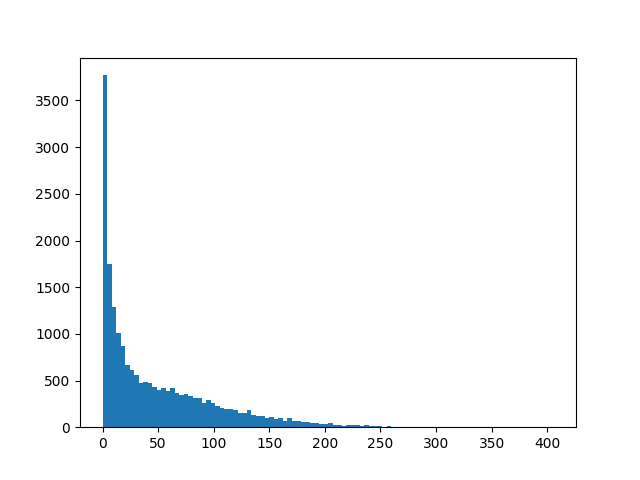
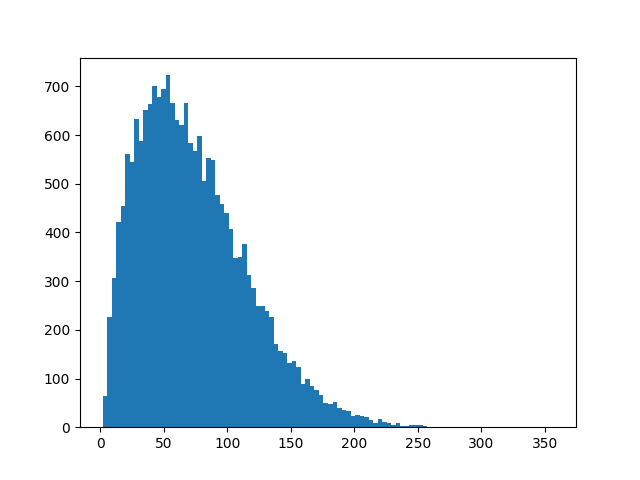
sync

diff --git a/scripts/why/crossattention.py b/scripts/why/crossattention.py
@@ -3,25 +3,76 @@ import sys
 sys.path.append('/home/banyh2000/odfn/scripts/why/daam')
 sys.path.append('/home/banyh2000/odfn')
 from daam import set_seed, trace
-
-from scripts.utils.utils_odfn import variance_index_sorted, seeds_plus, seeds_plus_dict, coco_classes
+import os
+from scripts.utils.utils_odfn import variance_index_sorted, seeds_plus, seeds_plus_dict, coco_classes, set_seed, auto_device
 
 from matplotlib import pyplot as plt
 import torch
+
+
+
+
+def replace(latent_source, latent_target, bounding_box_latent_source, bounding_box_latent_target):
+    """_summary_
+
+    Args:
+        latent_source (_type_): _description_
+        latent_target (_type_): _description_
+        bounding_box_latent_source (_type_): _description_
+        bounding_box_latent_target (_type_): _description_
+
+    Returns:
+        _type_: _description_
+    """
+
+    x_s, y_s, width_s, height_s = bounding_box_latent_source
+    x_t, y_t, width_t, height_t = bounding_box_latent_target
+    latent_target[:, :, y_t:y_t+height_t, x_t:x_t+width_t] = latent_source[:, :, y_s:y_s+height_s, x_s:x_s+width_s]
+    return latent_target
+
 
 model_id = 'stabilityai/stable-diffusion-2-base'
 device = 'cuda'
 pipe = StableDiffusionPipeline.from_pretrained(model_id, use_auth_token=True).to(device)
 
 for i, name in enumerate(coco_classes):
-    prompt = f"an object"
+    
+    seed_source = seeds_plus[variance_index_sorted[0]]
+    seed_target = seeds_plus[variance_index_sorted[19900]]
+    
+    bounding_box_latent_source = [40,24,24,24]
+    bounding_box_latent_target = [40,24,24,24]
+    
+    bounding_box_image_source = [value * 8 for value in bounding_box_latent_source]
+    bounding_box_image_target = [value * 8 for value in bounding_box_latent_target]
+    
+    latents_source = torch.randn((1,4,64,64), generator=set_seed(seed_source), device='cuda', dtype=torch.float32)
+    latents_target = torch.randn((1,4,64,64), generator=set_seed(seed_target), device='cuda', dtype=torch.float32)
+    prompt_target = f"a {name} on the table"
 
-    gen = set_seed(seeds_plus[variance_index_sorted[0]])  # for reproducibility
+    fig, axs = plt.subplots(2, 2, figsize=(10, 10))
 
     with torch.no_grad():
         with trace(pipe) as tc:
-            out = pipe(prompt, num_inference_steps=50, generator=gen)
+            out = pipe(prompt_target, num_inference_steps=50, latents = latents_target, generator=set_seed(seed_target))
+            axs[0][0].imshow(out.images[0])
+            axs[0][0].add_patch(plt.Rectangle((bounding_box_image_target[0], bounding_box_image_target[1]), bounding_box_image_target[2], bounding_box_image_target[3], fill=None, edgecolor='blue', lw=2))
+            
             heat_map = tc.compute_global_heat_map(time_idx=[0,1,2,3,4])
-            heat_map = heat_map.compute_word_heat_map('object')
-            heat_map.plot_overlay(out.images[0])
-            plt.savefig(f'pics/heatmap/ .png')
+            heat_map = heat_map.compute_word_heat_map(f'{name}')
+            heat_map.plot_overlay(out.images[0], ax=axs[0][1])
+            
+        latents_target = replace(latents_source, latents_target, bounding_box_latent_source, bounding_box_latent_target)
+        with trace(pipe) as tc:
+            out = pipe(prompt_target, num_inference_steps=50, latents = latents_target, generator=set_seed(seed_target))
+            axs[1][0].imshow(out.images[0])
+            axs[1][0].add_patch(plt.Rectangle((bounding_box_image_target[0], bounding_box_image_target[1]), bounding_box_image_target[2], bounding_box_image_target[3], fill=None, edgecolor='blue', lw=2))
+            
+            heat_map = tc.compute_global_heat_map(time_idx=[0,1,2,3,4])
+            heat_map = heat_map.compute_word_heat_map(f'{name}')
+            heat_map.plot_overlay(out.images[0], ax=axs[1][1])
+            
+            path = 'pics/heatmap/seed_0_pos_40_24_24_24_layer_0_5'
+            if not os.path.exists(path):
+                os.makedirs(path)
+            plt.savefig(f'{path}/{name}.png')

diff --git a/scripts/detector/detector.py b/scripts/detector/detector.py
@@ -1,0 +1,69 @@
+from mmdet.apis import DetInferencer
+import numpy as np
+import sys
+sys.path.append('/home/banyh2000/odfn')
+from scripts.utils.utils_odfn import variance_index_sorted,seeds_plus,set_seed,seeds_plus_spilt,return_seeds_plus_spilt
+import json
+from pathlib import Path
+import os
+path = Path('/nfs/data/yuanhaoban/ODFN/version_2/')
+import torch
+import matplotlib.pyplot as plt
+
+for j in range(0,20000,100):
+    image_id = variance_index_sorted[j]
+    seed = seeds_plus[image_id]
+    spilt = return_seeds_plus_spilt(seed)
+
+    array = torch.randn((1,4,64,64), generator=set_seed(seed), device='cuda', dtype=torch.float32)
+    array = array[0].cpu().numpy().transpose(1,2,0)
+
+
+    annotations = []
+    for spilt_ in ['train', 'val', 'test']:
+        base_path = '/nfs/data/yuanhaoban/ODFN/version_2/'
+        path = base_path + spilt_ + '/annotations/' + spilt_ + '_for_1_category_5_class_npy.json'
+        data = json.load(open(path, 'r'))
+        annotations += data['annotations']
+
+
+    # Initialize the DetInferencer
+    inferencer = DetInferencer(model='/nfs/data/yuanhaoban/ODFN/model/data_augmentation.py', weights='/nfs/data/yuanhaoban/ODFN/model/weights.pth',device='cuda')
+
+    results = inferencer(array)
+    results = results['predictions'][0]
+    fig,axs = plt.subplots(1,2,figsize=(10,5))
+    # scale array to 0-1
+    array = (array - array.min())/(array.max()-array.min())
+
+    # axs[0].imshow(array)
+    axs[0].set_title(spilt)
+    
+    place_holder = np.zeros((64,64,3))
+    for i in range(5):
+        scores = results['scores'][i]
+        bbox = results['bboxes'][i]
+        # axs[0].add_patch(plt.Rectangle((bbox[0],bbox[1]),bbox[2]-bbox[0],bbox[3]-bbox[1],fill=False,edgecolor='r'))
+        place_holder[int(bbox[1]):int(bbox[3]),int(bbox[0]):int(bbox[2]),:] += scores * (5-i)
+    place_holder = (place_holder - place_holder.min())/(place_holder.max()-place_holder.min())
+    axs[0].imshow(place_holder)
+    
+    place_holder = np.zeros((64,64,3))
+    annotations_true = []
+    for annotation in annotations:
+        if annotation['image_id'] == image_id:
+            annotations_true.append(annotation)
+            
+    print(len(annotations_true))
+            
+    # axs[1].imshow(array)
+    for ann in annotations_true:
+        bbox = ann['bbox']
+        # axs[1].add_patch(plt.Rectangle((bbox[0],bbox[1]),bbox[2]-bbox[0],bbox[3]-bbox[1],fill=False,edgecolor='r'))
+        place_holder[int(bbox[1]):int(bbox[3]),int(bbox[0]):int(bbox[2]),:] += 1
+    place_holder = (place_holder - place_holder.min())/(place_holder.max()-place_holder.min())
+    axs[1].imshow(place_holder)
+    
+    fig.savefig(f'pics/detector/5cate/{j}.png')
+
+    print(image_id, seed, spilt)

diff --git a/scripts/application/replace_any.py b/scripts/application/replace_any.py
@@ -96,7 +96,7 @@ def replace_patch(latent, bbox, patch, theta = None):
 # bounding_box_latent_source = [40,20,24,30]
 # bounding_box_latent_target = [20,10,24,30]
 
-for i in range(19900,20000):
+for i in range(19999,20000):
     seed_source = seeds_plus[variance_index_sorted[0]]
     seed_target = seeds_plus[variance_index_sorted[i]]
 
@@ -152,7 +152,7 @@ for i in range(19900,20000):
         axs[1][1].imshow(latents_target_final)
         
         
-        theta = 10
+        theta = 50
         x_t, y_t, width_t, height_t = bounding_box_latent_target
         patch = generate_patch_sin((4,height_t, width_t))
         # patch = generate_patch_singau((4,height_t, width_t), seed = set_seed(seed_target), lamuda = 0.85, std = 1)
@@ -172,4 +172,4 @@ for i in range(19900,20000):
         axs[2][1].add_patch(plt.Rectangle((bounding_box_latent_target[0], bounding_box_latent_target[1]), bounding_box_latent_target[2], bounding_box_latent_target[3], fill=None, edgecolor='blue', lw=2))
         axs[2][1].imshow(latents_target_final)
             
-        fig.savefig(f'pics/replace_any/ball/replace_{i}.png')
+        fig.savefig(f'pics/replace_any/replace.png')

diff --git a/scripts/filtering/filter.py b/scripts/filtering/filter.py
@@ -13,7 +13,7 @@ import matplotlib.pyplot as plt
 imageid_to_ann_num = np.zeros(20000, dtype=int)
 
 for spilt in ['train', 'val', 'test']:
-    mode = '1_category_1_class_npy'
+    mode = '1_category_5_class_npy'
     name = spilt + '_for_' + mode + '.json'
 
     base_path = '/nfs/data/yuanhaoban/ODFN/version_2/'
@@ -31,8 +31,8 @@ dict_variance = {}
 for i in range(20000):
     dict_variance[i] = []
 
-for spilt in ['train', 'val', 'test']:
-    mode = '1_category_1_class_npy'
+for spilt in ['train', 'val']:
+    mode = '1_category_5_class_npy'
     name = spilt + '_for_' + mode + '.json'
 
     base_path = '/nfs/data/yuanhaoban/ODFN/version_2/'
@@ -63,4 +63,4 @@ sort = sorted(list(dict_variance.values()))
 print(sort[10000])
 
 plt.hist(list(dict_variance.values()), bins=100)
-plt.savefig('variance.png')
+plt.savefig('variance_1.png')

diff --git a/scripts/utils/utils_odfn.py b/scripts/utils/utils_odfn.py
@@ -74,6 +74,16 @@ def seeds_plus_spilt(spilt):
         raise ValueError('category error')
     return seeds_sub
 
+def return_seeds_plus_spilt(seed):
+    if seed in seeds_plus[:17500]:
+        return 'train'
+    elif seed in seeds_plus[17500:18500]:
+        return 'val'
+    elif seed in seeds_plus[18500:20000]:
+        return 'test'
+    else:
+        raise ValueError('category error')
+
 def extract_ground_seeds(image_id):
     class_id = image_id //100000
     seed_id = image_id // 100 % 1000

diff --git a/scripts/why/plot.py b/scripts/why/plot.py
@@ -1,0 +1,9 @@
+import matplotlib.pyplot as plt
+
+values = [0.1777,0.1686,0.1636,0.1615,0.1565,0.1529,0.15220, 0.1540,0.1493,0.14666]
+
+plt.plot(values)
+base = 0.1331
+# plot a line in the same plt with the value is the same as base
+plt.plot([0,10],[base,base])
+plt.savefig('pics/plot.png')
